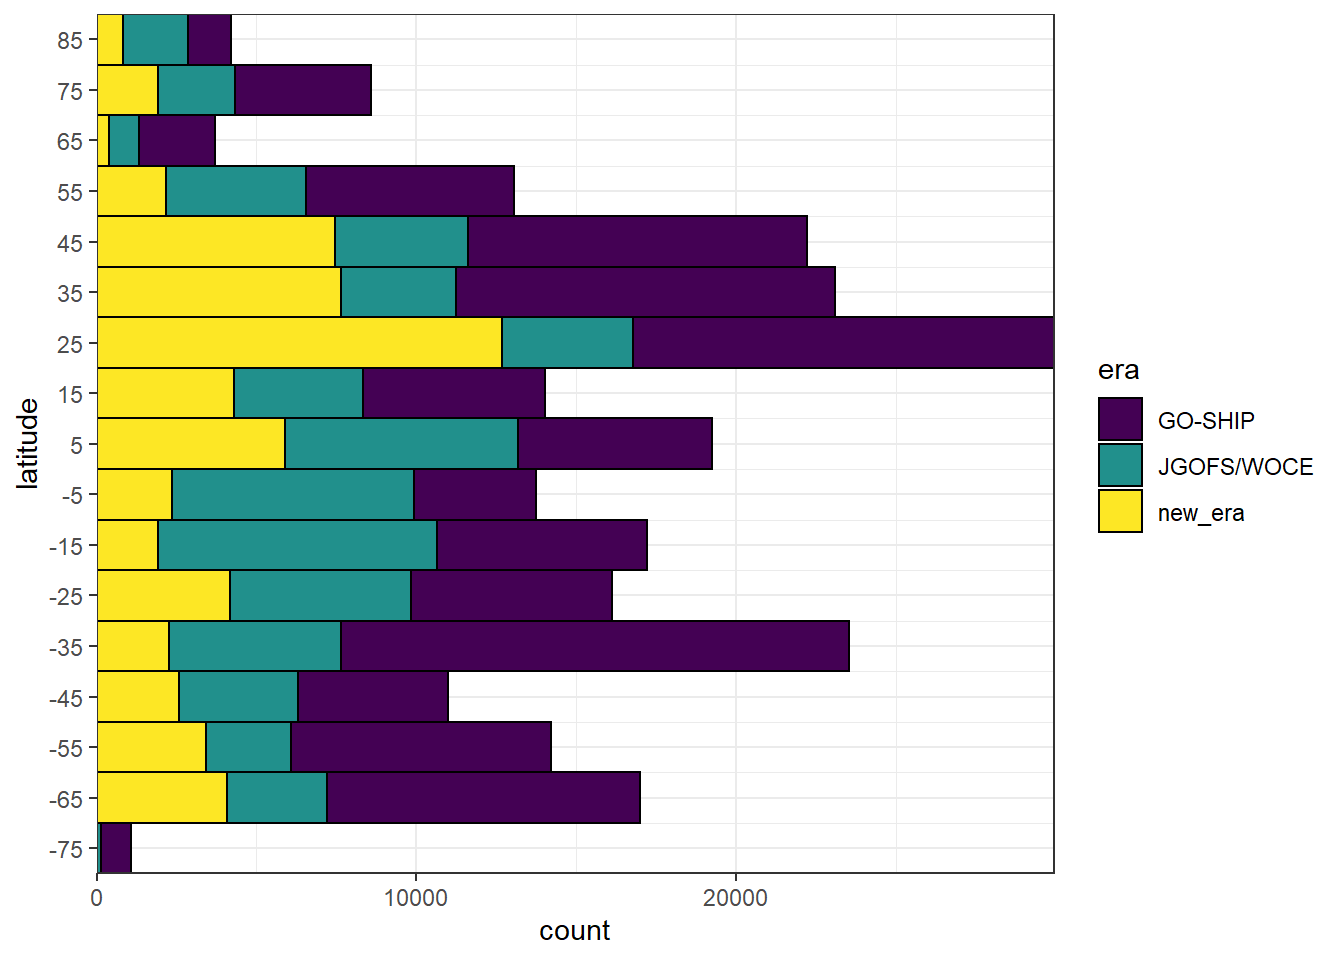
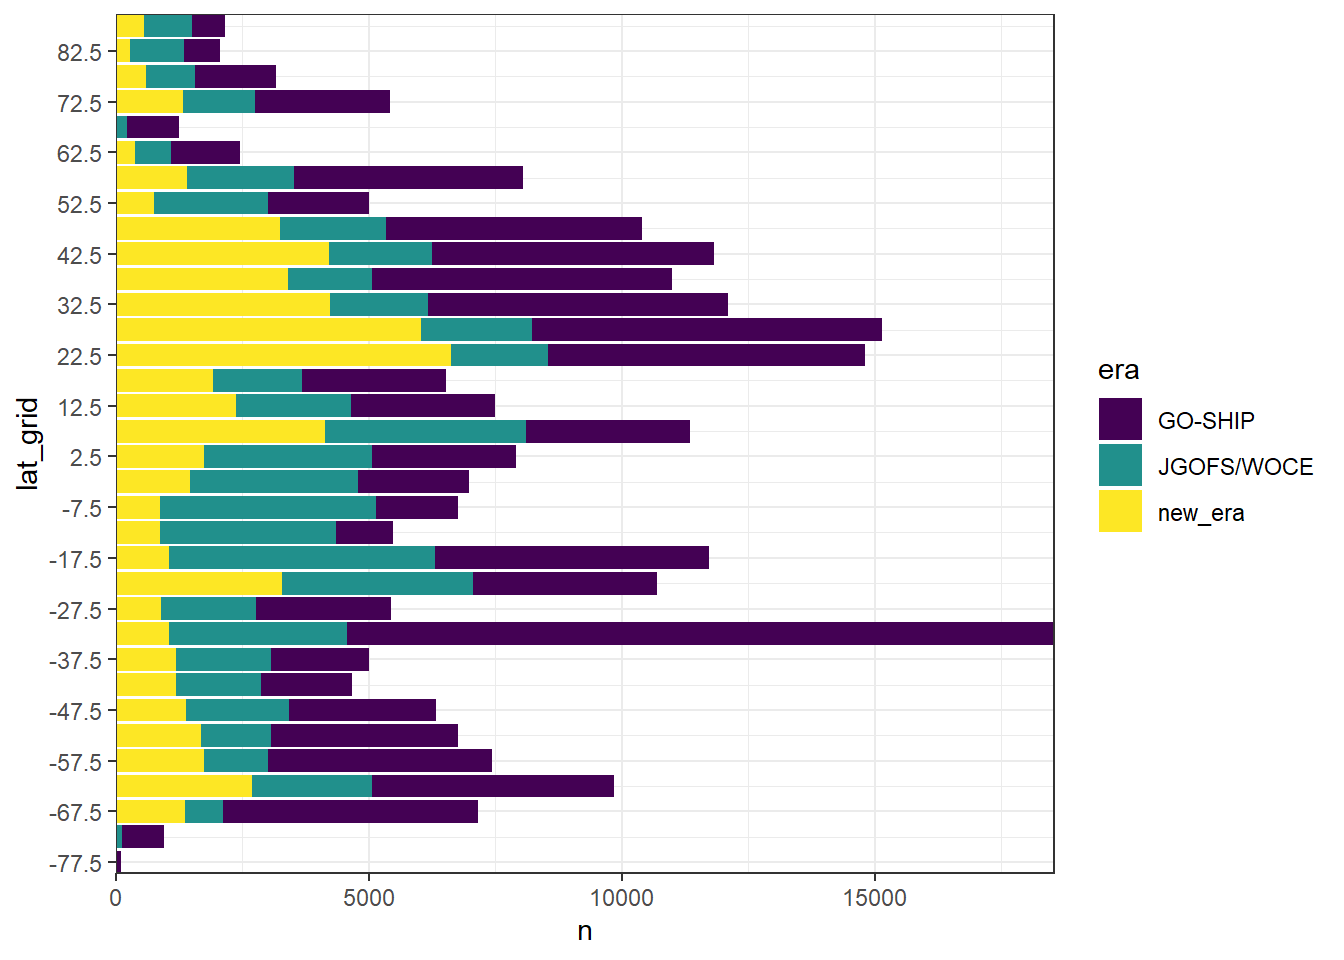
Build site.

diff --git a/docs/data_base.html b/docs/data_base.html
@@ -446,16 +446,16 @@ This reproducible <a href="http://rmarkdown.rstudio.com">R Markdown</a> analysis
 <div class="panel panel-default">
 <div class="panel-heading">
 <p class="panel-title">
-<a data-toggle="collapse" data-parent="#workflowr-checks" href="#strongRepositoryversionstrongahrefhttpsgithubcomjensdanielmuellerCanteMLRtree0e17433800f61a2507f46094251f3578a0e3a865targetblank0e17433a"> <span class="glyphicon glyphicon-ok text-success" aria-hidden="true"></span> <strong>Repository version:</strong> <a href="https://github.com/jens-daniel-mueller/Cant_eMLR/tree/0e17433800f61a2507f46094251f3578a0e3a865" target="_blank">0e17433</a> </a>
+<a data-toggle="collapse" data-parent="#workflowr-checks" href="#strongRepositoryversionstrongahrefhttpsgithubcomjensdanielmuellerCanteMLRtree61574a8f5210f033d32bc4a80cfcbd31a9429d14targetblank61574a8a"> <span class="glyphicon glyphicon-ok text-success" aria-hidden="true"></span> <strong>Repository version:</strong> <a href="https://github.com/jens-daniel-mueller/Cant_eMLR/tree/61574a8f5210f033d32bc4a80cfcbd31a9429d14" target="_blank">61574a8</a> </a>
 </p>
 </div>
[2 lines of base64/hex data omitted]
 <div class="panel-body">
 <p>
 Great! You are using Git for version control. Tracking code development and connecting the code version to the results is critical for reproducibility.
 </p>
 <p>
-The results in this page were generated with repository version <a href="https://github.com/jens-daniel-mueller/Cant_eMLR/tree/0e17433800f61a2507f46094251f3578a0e3a865" target="_blank">0e17433</a>. See the <em>Past versions</em> tab to see a history of the changes made to the R Markdown and HTML files.
+The results in this page were generated with repository version <a href="https://github.com/jens-daniel-mueller/Cant_eMLR/tree/61574a8f5210f033d32bc4a80cfcbd31a9429d14" target="_blank">61574a8</a>. See the <em>Past versions</em> tab to see a history of the changes made to the R Markdown and HTML files.
 </p>
 <p>
 Note that you need to be careful to ensure that all relevant files for the analysis have been committed to Git prior to generating the results (you can use <code>wflow_publish</code> or <code>wflow_git_commit</code>). workflowr only checks the R Markdown file, but you know if there are other scripts or data files that it depends on. Below is the status of the Git repository when the results were generated:
@@ -506,6 +506,40 @@ Message
 </tr>
 </thead>
 <tbody>
+<tr>
+<td>
+Rmd
+</td>
+<td>
+<a href="https://github.com/jens-daniel-mueller/Cant_eMLR/blob/61574a8f5210f033d32bc4a80cfcbd31a9429d14/analysis/data_base.Rmd" target="_blank">61574a8</a>
+</td>
+<td>
+jens-daniel-mueller
+</td>
+<td>
+2020-07-14
+</td>
+<td>
+cleaned overview plots
+</td>
+</tr>
+<tr>
+<td>
+html
+</td>
+<td>
+<a href="https://rawcdn.githack.com/jens-daniel-mueller/Cant_eMLR/ac5a348f4b09640a317011741ee2febe4b6ffe6d/docs/data_base.html" target="_blank">ac5a348</a>
+</td>
+<td>
+jens-daniel-mueller
+</td>
+<td>
+2020-07-14
+</td>
+<td>
+Build site.
+</td>
+</tr>
 <tr>
 <td>
 Rmd
@@ -943,6 +977,7 @@ GLODAP &lt;- GLODAP %&gt;%
 <li>flag f: 2</li>
 <li>flag qc: 1</li>
 </ul></li>
+<li>calculate summary statistics during cleaning process</li>
 </ul>
 <pre class="r"><code>GLODAP_stats &lt;- GLODAP %&gt;% 
   summarise(total = n())
@@ -1064,10 +1099,12 @@ GLODAP_stats_long  %&gt;%  write_csv(here::here(&quot;data/GLODAPv2_2020/_summar
 
 rm(GLODAP_stats_long, GLODAP_stats)</code></pre>
 </div>
-</div>
-<div id="assign-reference-eras" class="section level1">
-<h1><span class="header-section-number">2</span> Assign reference eras</h1>
-<p>Samples before Jan 01, 2000 were assigned as to the “JGOFS/WOCE” era, else to “GO-SHIP” era.</p>
+<div id="assign-reference-eras" class="section level2">
+<h2><span class="header-section-number">1.3</span> Assign reference eras</h2>
+<p>Samples were assigned to following eras:</p>
+<p><code>JGOFS/WOCE</code> 1981 - 1999</p>
+<p><code>GO-SHIP</code> 2000 - 2012</p>
+<p><code>new_era</code> 2013 - now</p>
 <pre class="r"><code>GLODAP &lt;- GLODAP %&gt;%
   filter(year &gt;= 1981) %&gt;% 
   mutate(era = &quot;JGOFS/WOCE&quot;,
@@ -1076,10 +1113,23 @@ rm(GLODAP_stats_long, GLODAP_stats)</code></pre>
 <pre class="r"><code>GLODAP  %&gt;%  write_csv(here::here(&quot;data/GLODAPv2_2020/_summarized_data_files&quot;,
                                   &quot;GLODAPv2.2020_clean.csv&quot;))</code></pre>
 </div>
-<div id="overview-glodapv2-2020" class="section level1">
-<h1><span class="header-section-number">3</span> Overview GLODAPv2-2020</h1>
-<div id="nr-of-observations" class="section level2">
-<h2><span class="header-section-number">3.1</span> Nr of observations</h2>
+<div id="overview-plots" class="section level2">
+<h2><span class="header-section-number">1.4</span> Overview plots</h2>
+<p>Open clean data file.</p>
+<pre class="r"><code>GLODAP &lt;- read_csv(here::here(&quot;data/GLODAPv2_2020/_summarized_data_files&quot;,
+                              &quot;GLODAPv2.2020_clean.csv&quot;))</code></pre>
+<div id="assign-spatial-grid" class="section level3">
+<h3><span class="header-section-number">1.4.1</span> Assign spatial grid</h3>
+<p>For the following plots, observations were gridded spatially to 5°x5° intervals.</p>
+<pre class="r"><code>GLODAP &lt;- GLODAP %&gt;% 
+  mutate(lat_grid = cut(latitude, seq(-90, 90, 5), seq(-87.5, 87.5, 5)),
+         lat_grid = as.numeric(as.character(lat_grid)),
+         lon_grid = cut(longitude, seq(-180, 180, 5), seq(-177.5, 177.5, 5)),
+         lon_grid = as.numeric(as.character(lon_grid))) %&gt;% 
+  arrange(date)</code></pre>
+</div>
+<div id="cleaning-stats" class="section level3">
+<h3><span class="header-section-number">1.4.2</span> Cleaning stats</h3>
 <pre class="r"><code>GLODAP_stats_long &lt;-  read_csv(here::here(&quot;data/GLODAPv2_2020/_summarized_data_files&quot;,
                                              &quot;GLODAPv2.2020_stats.csv&quot;))
 
@@ -1095,73 +1145,66 @@ GLODAP_stats_long %&gt;%
 <p><img src="figure/data_base.Rmd/GLODAP_stats_barplot-1.png" width="672" style="display: block; margin: auto;" /></p>
 <pre class="r"><code>rm(GLODAP_stats_long)</code></pre>
 </div>
-<div id="data-coverage" class="section level2">
-<h2><span class="header-section-number">3.2</span> Data coverage</h2>
-<p>Spatio-temporal distribution of non-flagged, paired <code>talk</code>, <code>tco2</code>, and <code>phosphate</code> data.</p>
-<pre class="r"><code>GLODAP &lt;- read_csv(here::here(&quot;data/GLODAPv2_2020/_summarized_data_files&quot;,
-                              &quot;GLODAPv2.2020_clean.csv&quot;))</code></pre>
+<div id="histogram-latitudes" class="section level3">
+<h3><span class="header-section-number">1.4.3</span> Histogram latitudes</h3>
+<pre class="r"><code>GLODAP_histogram_lat &lt;- GLODAP %&gt;% 
+  group_by(era, lat_grid) %&gt;% 
+  tally() %&gt;% 
+  ungroup()
+
+GLODAP_histogram_lat %&gt;% 
+  ggplot(aes(lat_grid, n, fill=era))+
+  geom_col()+
+  scale_x_continuous(breaks = seq(-87.5,90,10))+
+  scale_fill_viridis_d()+
+  coord_flip(expand = 0)</code></pre>
+<p><img src="figure/data_base.Rmd/histogramm_latitude_observations-1.png" width="672" style="display: block; margin: auto;" /></p>
+<pre class="r"><code>rm(GLODAP_histogram_lat)</code></pre>
 </div>
-<div id="gridding" class="section level2">
-<h2><span class="header-section-number">3.3</span> Gridding</h2>
-<pre class="r"><code>GLODAP &lt;- GLODAP %&gt;% 
-  mutate(lat_grid = cut(latitude, seq(-90, 90, 5), seq(-87.5, 87.5, 5)),
-         lat_grid = as.numeric(as.character(lat_grid)),
-         lon_grid = cut(longitude, seq(-180, 180, 5), seq(-177.5, 177.5, 5)),
-         lon_grid = as.numeric(as.character(lon_grid)))
-
-GLODAP &lt;- GLODAP %&gt;% 
-  arrange(date)
-
-GLODAP_histogram_year &lt;- GLODAP %&gt;% 
+<div id="histogram-year" class="section level3">
+<h3><span class="header-section-number">1.4.4</span> Histogram year</h3>
+<pre class="r"><code>GLODAP_histogram_year &lt;- GLODAP %&gt;% 
   group_by(era, year) %&gt;% 
-  tally() %&gt;% 
-  ungroup()
-
-GLODAP_map_era &lt;- GLODAP %&gt;% 
-  group_by(era, lat_grid, lon_grid) %&gt;% 
-  tally() %&gt;% 
-  ungroup()
-
-GLODAP_hovmoeller_year &lt;- GLODAP %&gt;% 
-  group_by(year, lat_grid) %&gt;% 
   tally() %&gt;% 
   ungroup()
 
 era_median_year &lt;- GLODAP %&gt;% 
   group_by(era) %&gt;% 
   summarise(t_ref = median(year)) %&gt;% 
-  ungroup()</code></pre>
-</div>
-<div id="histograms" class="section level2">
-<h2><span class="header-section-number">3.4</span> Histograms</h2>
-<pre class="r"><code>GLODAP %&gt;% 
-  ggplot(aes(latitude, fill=era))+
-  geom_histogram(binwidth = 10, col=&quot;black&quot;, boundary = 0)+
-  scale_x_continuous(breaks = seq(-85,90,10))+
-  scale_fill_viridis_d()+
-  coord_flip(expand = 0)</code></pre>
-<p><img src="figure/data_base.Rmd/histogramm_latitude_observations-1.png" width="672" style="display: block; margin: auto;" /></p>
-<pre class="r"><code>GLODAP_histogram_year %&gt;% 
+  ungroup()
+
+GLODAP_histogram_year %&gt;% 
   ggplot(aes(year, n, fill=era))+
   geom_col()+
-  geom_vline(xintercept = era_median_year$t_ref)+
+  geom_vline(data = era_median_year, aes(xintercept = t_ref))+
   coord_cartesian(expand = 0)</code></pre>
 <p><img src="figure/data_base.Rmd/histogramm_year_observations-1.png" width="672" style="display: block; margin: auto;" /></p>
-<pre class="r"><code>rm(GLODAP_histogram_year)</code></pre>
+<pre class="r"><code>rm(GLODAP_histogram_year,
+   era_median_year)</code></pre>
 </div>
-<div id="hovmoeller-lat-time" class="section level2">
-<h2><span class="header-section-number">3.5</span> Hovmoeller (Lat-time)</h2>
-<pre class="r"><code>GLODAP_hovmoeller_year %&gt;% 
+<div id="hovmoeller-lat-vs-year" class="section level3">
+<h3><span class="header-section-number">1.4.5</span> Hovmoeller (lat vs year)</h3>
+<pre class="r"><code>GLODAP_hovmoeller_year &lt;- GLODAP %&gt;% 
+  group_by(year, lat_grid) %&gt;% 
+  tally() %&gt;% 
+  ungroup()
+
+GLODAP_hovmoeller_year %&gt;% 
   ggplot(aes(year, lat_grid, fill=log10(n)))+
-  geom_vline(xintercept = c(2000, 2013))+
   geom_tile()+
+  geom_vline(xintercept = c(1999.5, 2012.5))+
   scale_fill_viridis_c(option = &quot;magma&quot;, direction = -1)</code></pre>
 <p><img src="figure/data_base.Rmd/coverage_hovmoeller-1.png" width="672" style="display: block; margin: auto;" /></p>
 <pre class="r"><code>rm(GLODAP_hovmoeller_year)</code></pre>
 </div>
-<div id="maps" class="section level2">
-<h2><span class="header-section-number">3.6</span> Maps</h2>
+<div id="maps-by-era" class="section level3">
+<h3><span class="header-section-number">1.4.6</span> Maps by era</h3>
 <pre class="r"><code>mapWorld &lt;- borders(&quot;world&quot;, colour=&quot;gray60&quot;, fill=&quot;gray60&quot;)
+
+GLODAP_map_era &lt;- GLODAP %&gt;% 
+  group_by(era, lat_grid, lon_grid) %&gt;% 
+  tally() %&gt;% 
+  ungroup()
 
 GLODAP_map_era &lt;- GLODAP_map_era %&gt;% 
   mutate(era = factor(era, c(&quot;JGOFS/WOCE&quot;, &quot;GO-SHIP&quot;, &quot;new_era&quot;)))
@@ -1176,10 +1219,12 @@ GLODAP_map_era %&gt;%
   coord_quickmap(expand = FALSE)+
   facet_wrap(~era, ncol=1)</code></pre>
 <p><img src="figure/data_base.Rmd/coverage_maps_era-1.png" width="672" style="display: block; margin: auto;" /></p>
-<pre class="r"><code>rm(GLODAP_map_era)</code></pre>
+<pre class="r"><code>rm(GLODAP_map_era,
+   mapWorld)</code></pre>
+</div>
 </div>
 <div id="individual-cruise-sections" class="section level2">
-<h2><span class="header-section-number">3.7</span> Individual cruise sections</h2>
+<h2><span class="header-section-number">1.5</span> Individual cruise sections</h2>
 <pre class="r"><code>cruises &lt;- GLODAP %&gt;% 
   group_by(cruise) %&gt;% 
   summarise(date_mean = mean(date, na.rm = TRUE),
@@ -1292,15 +1337,18 @@ rm(map,
 # https://www.r-spatial.org/r/2018/10/25/ggplot2-sf.html</code></pre>
 </div>
 </div>
+<div id="atmospheric-pco2" class="section level1">
+<h1><span class="header-section-number">2</span> Atmospheric pCO<sub>2</sub></h1>
+</div>
 <div id="open-tasks" class="section level1">
-<h1><span class="header-section-number">4</span> Open tasks</h1>
+<h1><span class="header-section-number">3</span> Open tasks</h1>
 <ul>
 <li>remove marginal seas and data north of 65°N</li>
 <li>move A16 cruises from new_era to GO-SHIP era</li>
 </ul>
 </div>
 <div id="questions" class="section level1">
-<h1><span class="header-section-number">5</span> Questions</h1>
+<h1><span class="header-section-number">4</span> Questions</h1>
 <ul>
 <li>exclude coastal area in general?</li>
 </ul>
